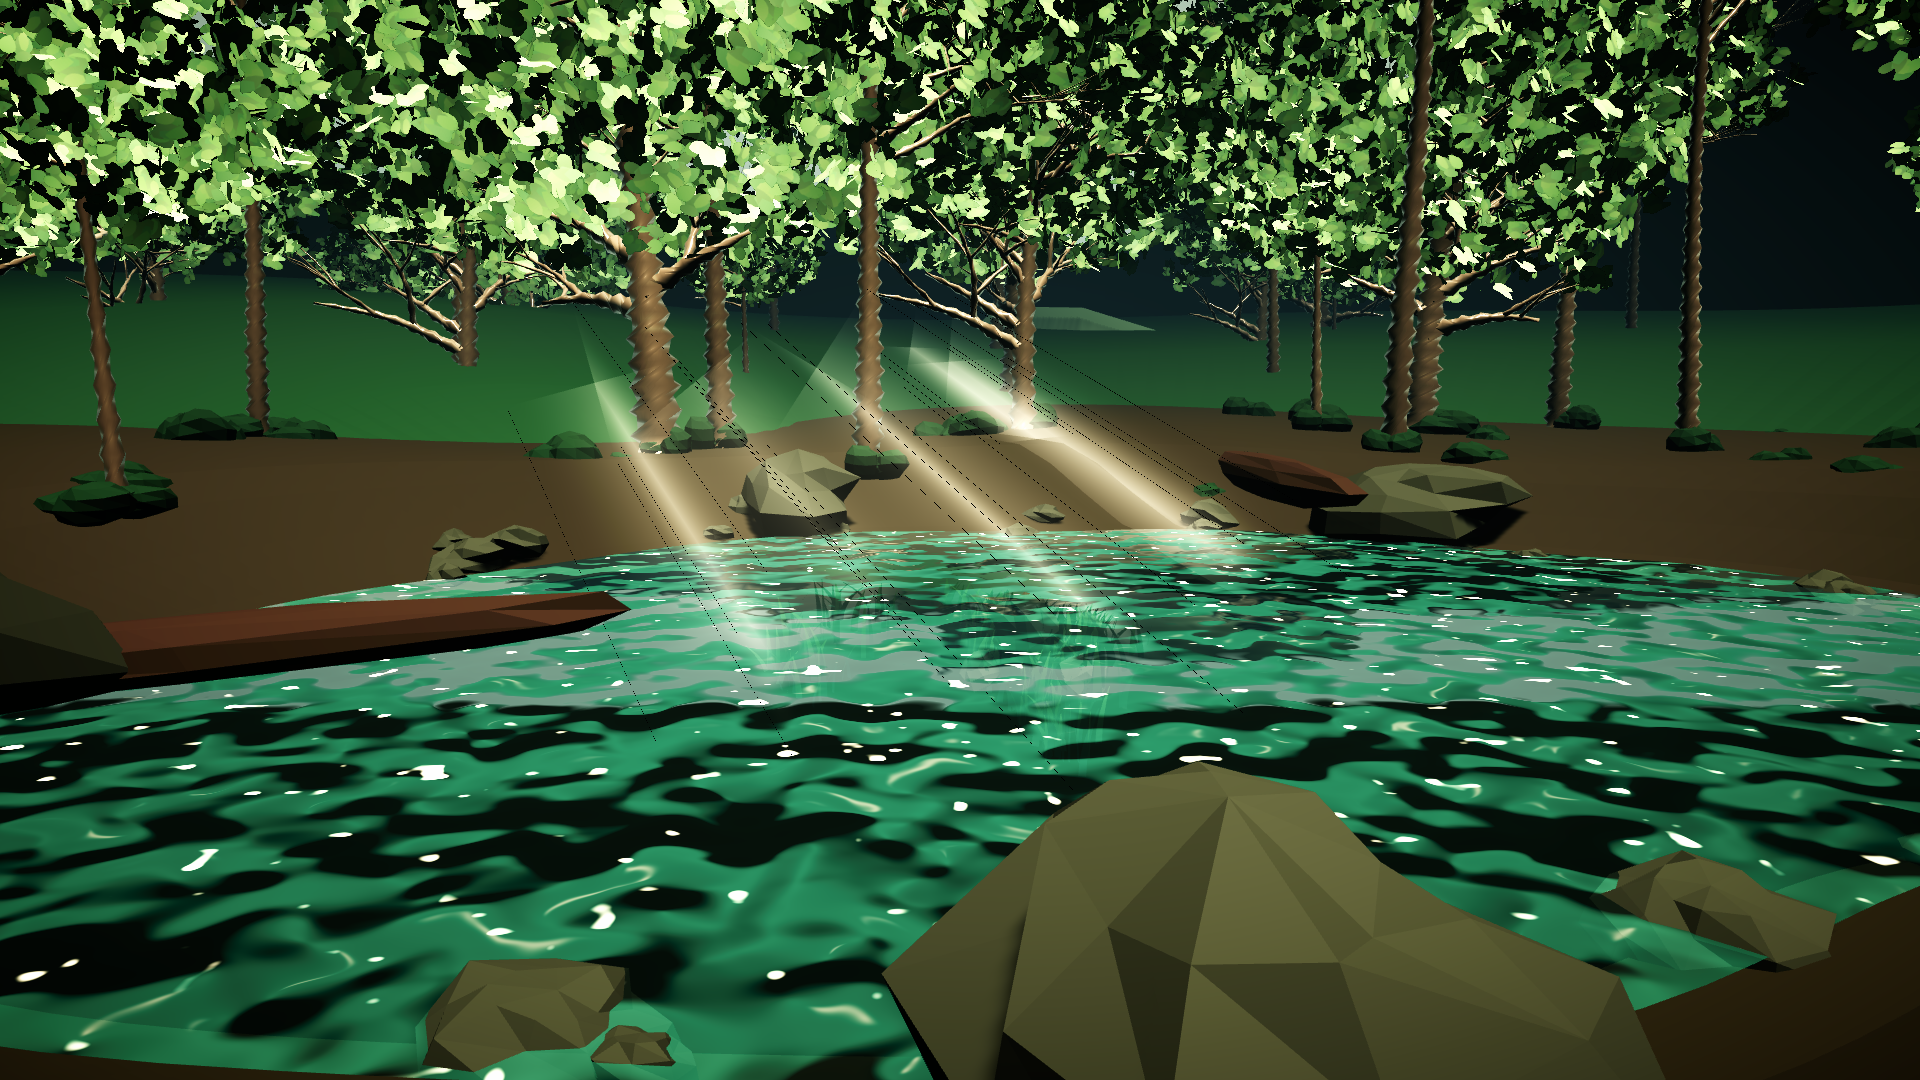
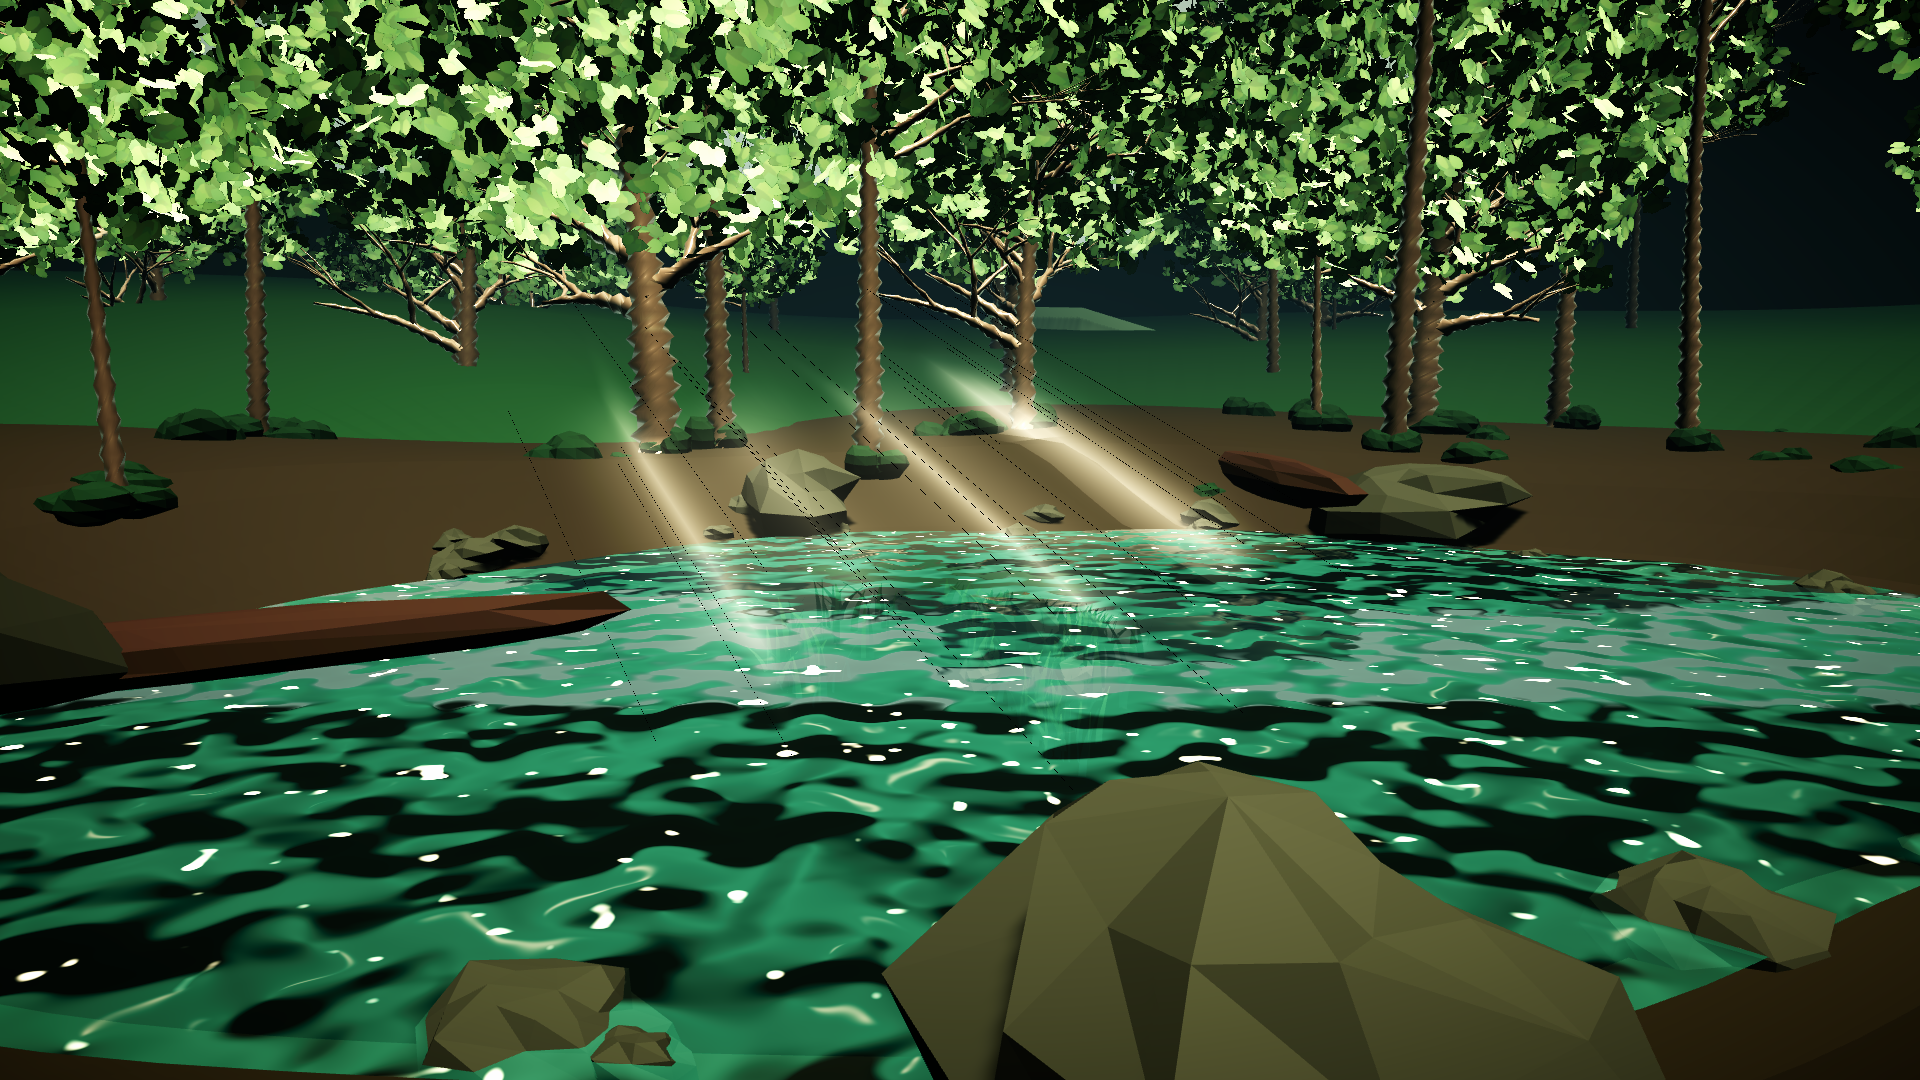
fix(R108): Pond 光束定位 + 顶端硬边. ①新增 R108/90 探针(列出所有非Lit渲染器) 一次看清 Pond 特效: PoolShaft_0~4 + LightShaft ②LightShaft 是平面四边形+加性混合(Cull Off), 纵向顶端原来只衰减到0.70 => 四边形上边缘是硬直线(读作'三角形光板'); 改 1-smoothstep(0.62,1.0,uv.y) 完全淡出 ③Pond 71.5/54.5/146.9 ④遗留: 每束光只有一张平面, 侧看退化成细线(那些直线状细纹), 正解是交叉四边形(建模改动); 水面'墨渍'经排查是树冠倒影

diff --git a/Assets/Editor/R105Setup.cs b/Assets/Editor/R105Setup.cs
@@ -82,6 +82,23 @@ namespace WaterProject.EditorTools
             P("R105/90b 天空盒 -> Default-Skybox\n");
         }
 
+
+        // R108：列出当前场景里**所有非 URP/Lit/Unlit 的渲染器**（体积光/特效用自定义 shader，
+        //   排查"光束硬边/虚线"这类问题时，先看它们是哪些物体、用的什么材质）
+        [MenuItem("Tools/R108/90 列出所有非 Lit 渲染器")]
+        public static void ListNonLit()
+        {
+            P($"R108 场景={EditorSceneManager.GetActiveScene().name}\n");
+            foreach (var r in Object.FindObjectsOfType<Renderer>())
+            {
+                var m = r.sharedMaterial;
+                if (m == null || m.shader == null) continue;
+                string sh = m.shader.name;
+                if (sh == "Universal Render Pipeline/Lit" || sh == "Universal Render Pipeline/Unlit") continue;
+                P($"   {r.name,-28} mat={m.name,-22} shader={sh}  enabled={r.enabled}\n");
+            }
+        }
+
         [MenuItem("Tools/R105/91 探针")]
         public static void Probe()
         {

diff --git a/Docs/学习路径与知识库/检测报告/R56_场景画质与采集口径.md b/Docs/学习路径与知识库/检测报告/R56_场景画质与采集口径.md
@@ -780,3 +780,27 @@ Bloom 阈值 1.05 太低，一点高光就能糊满全屏。
 ### 记两条账
 - **旧帧掩盖回归**是这轮最贵的教训：凡是"改完立刻验一次"的结论，**必须看像素差**，不能只信统计量。
 - Bloom 这种**全局放大器**在"有小面积超亮源"的暗场景里会毁掉整幅画面，改曝光前先看爆白率。
+
+---
+
+## R108：Pond 光束的定位与顶端硬边
+
+新增"列出所有非 Lit 渲染器"的探针（`R108/90`），一次看清 Pond 的特效构成：
+
+| 渲染器 | 材质 | shader |
+| --- | --- | --- |
+| PoolWater | Water_Pond | WaterProject/Water_Pond |
+| R33_Flora | R33_WaterPlant | WaterProject/WaterPlant |
+| **PoolShaft_0~4** | **LightShaft** | **WaterProject/LightShaft** |
+
+`LightShaft` 是**平面四边形 + 加性混合**（`Blend SrcAlpha One`、`Cull Off`）：
+- 横向用 `pow(1-|uv.x*2-1|, _Softness)` 软化 —— 这条是对的；
+- **纵向顶端原来只衰减到 0.70** ⇒ 四边形上边缘是一条硬直线，画面里读作"三角形光板"。
+  改成 `1 - smoothstep(0.62, 1.0, uv.y)`，顶端完全淡出。
+
+Pond：71.5 / 54.5 / 146.9 / 近黑 22.38 / 爆白 0.64。
+
+### 遗留（结构性）
+1. 每束光只有**一张平面四边形** ⇒ 侧看时退化成一条细线（画面里那些直线状细纹）；
+   正解是每束做 **2~3 张交叉四边形**（billboard 十字），属建模改动。
+2. 水面那层"墨渍"状暗斑经排查是**树冠倒影**（物理上合理），不是伪影。
